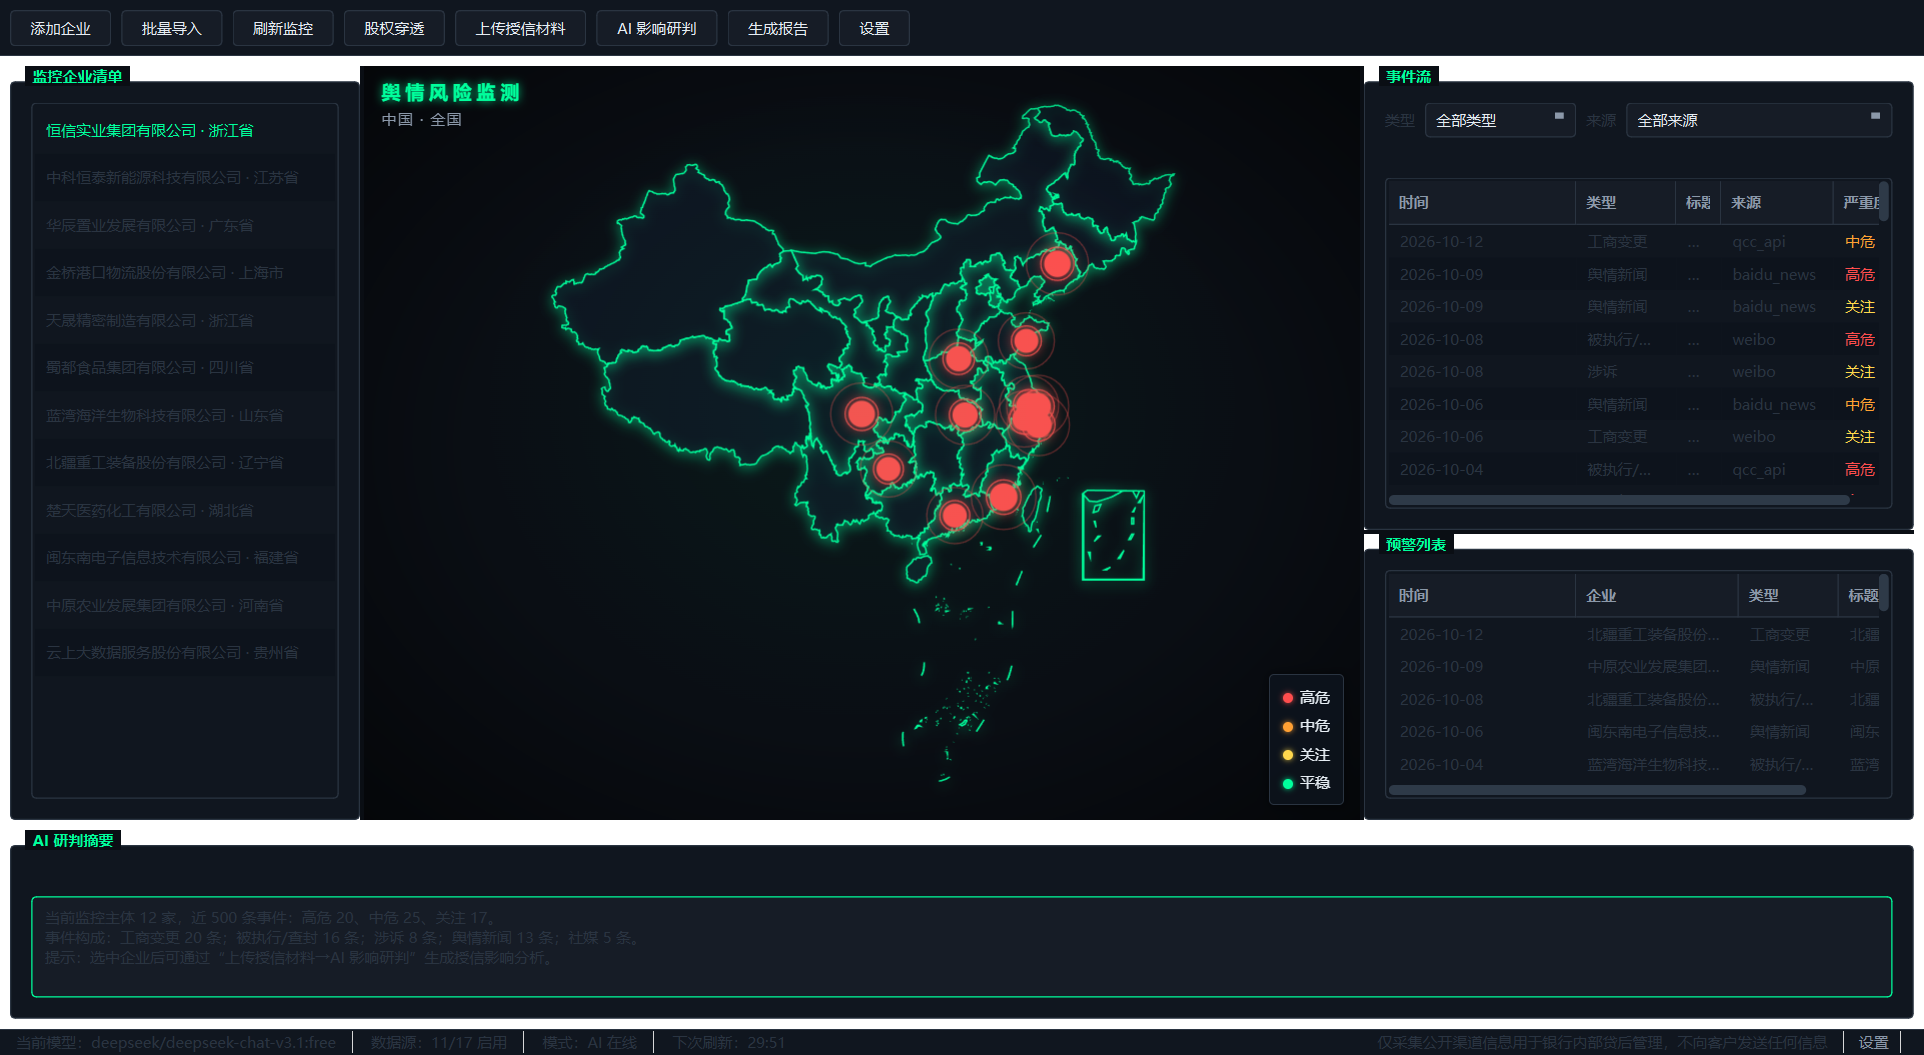
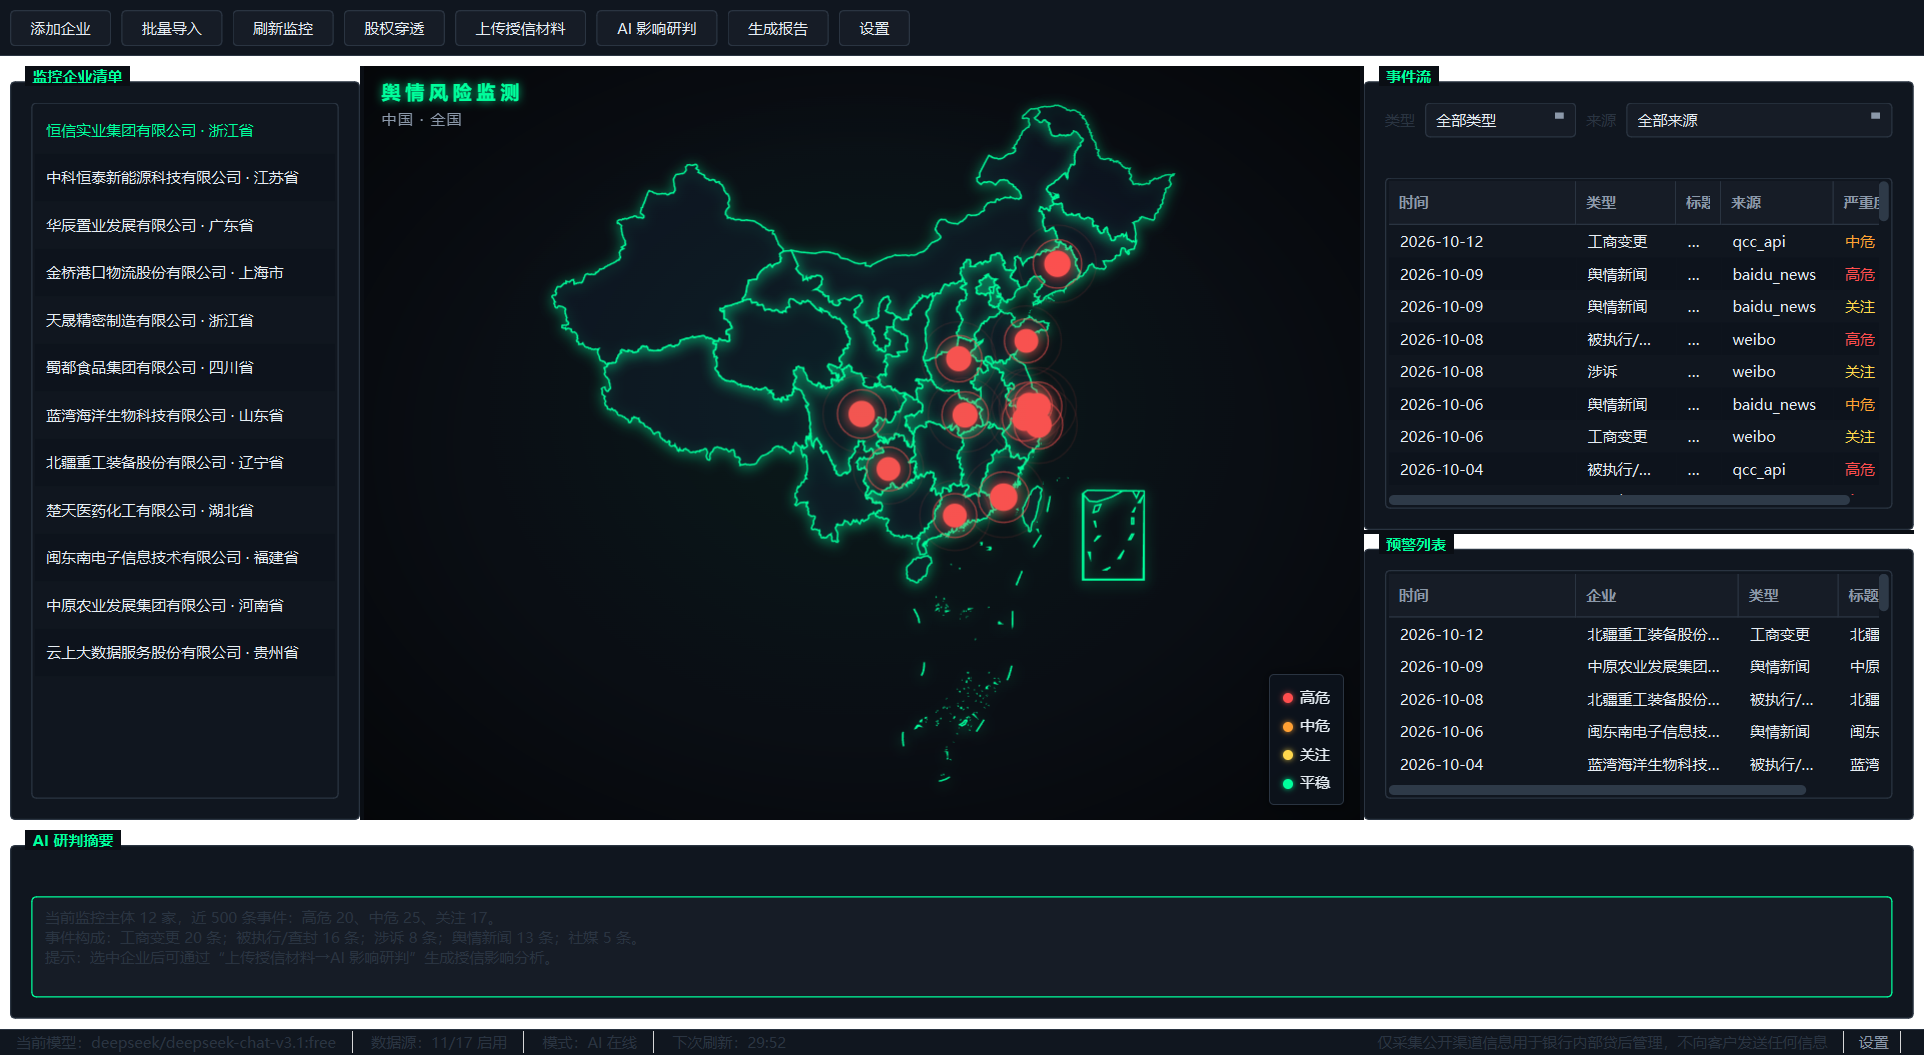
fix(ui): 修复深色主题下列表/表格未选中条目文字过暗
- Qt 样式表激活期间 item 文本不继承 QSS color 与调色板，改为在
  panels.py 对企业清单/事件流/预警列表条目显式 setForeground(TEXT_MAIN)
- theme.apply_palette() 补充应用级深色调色板（输入框/文本域兜底）
- theme QSS 为列表与输入控件显式声明 color

diff --git a/src/gui/theme.py b/src/gui/theme.py
@@ -48,6 +48,36 @@ RADIUS = 4                  # 卡片圆角
 SPACE = 8                   # 统一 8px 间距栅格
 
 
+def apply_palette(app):
+    """设置应用级深色调色板。
+
+    QSS 的 color 属性对 item view 条目文本（走 QPalette.Text 角色）不生效，
+    必须在调色板层显式指定，否则列表/表格未选中条目文字会落回系统默认灰暗色。
+    """
+    from PySide6.QtGui import QColor, QPalette
+
+    def _role(group, color, *roles):
+        for r in roles:
+            pal.setColor(group, r, QColor(color))
+
+    pal = app.palette()
+    active = QPalette.ColorGroup.Active
+    disabled = QPalette.ColorGroup.Disabled
+    R = QPalette.ColorRole
+    _role(active, TEXT_MAIN, R.WindowText, R.Text, R.ButtonText, R.BrightText)
+    _role(active, BG_WINDOW, R.Window)
+    _role(active, BG_CARD, R.Base)
+    _role(active, "#0D131C", R.AlternateBase)
+    _role(active, BG_INPUT, R.Button)
+    _role(active, PRIMARY_BG, R.Highlight)
+    _role(active, PRIMARY, R.HighlightedText)
+    _role(active, BG_CARD, R.ToolTipBase)
+    _role(active, PRIMARY, R.ToolTipText)
+    _role(active, TEXT_DISABLE, R.PlaceholderText)
+    _role(disabled, TEXT_DISABLE, R.WindowText, R.Text, R.ButtonText)
+    app.setPalette(pal)
+
+
 def get_app_qss() -> str:
     """返回全局样式表。黑色卡片式 QMainWindow/QGroupBox、三态按钮、表格、页签、输入控件、状态栏。"""
     return f"""
@@ -155,6 +185,7 @@ QPushButton[danger="true"]:pressed {{
 /* ---------- 输入控件 ---------- */
 QLineEdit, QPlainTextEdit, QTextEdit, QSpinBox, QDoubleSpinBox, QDateEdit, QTimeEdit {{
     background: {BG_INPUT};
+    color: {TEXT_MAIN};
     border: 1px solid {BORDER};
     border-radius: {RADIUS}px;
     padding: 4px 6px;
@@ -223,8 +254,10 @@ QCheckBox:hover, QRadioButton:hover {{
 }}
 
 /* ---------- 列表 / 表格 / 树 ---------- */
+/* 注意：item 文本走 QPalette.Text 角色，全局 * 选择器不生效，必须在此显式声明亮色 */
 QListWidget, QTreeWidget, QTableView, QListView {{
     background: {BG_CARD};
+    color: {TEXT_MAIN};
     border: 1px solid {BORDER};
     border-radius: {RADIUS}px;
     alternate-background-color: #0D131C;

diff --git a/src/gui/panels.py b/src/gui/panels.py
@@ -82,6 +82,8 @@ class EnterpriseListPanel(QGroupBox):
         tag = f"（{ent.relation}）" if ent.relation else ""
         region = f" · {ent.province}" if ent.province else ""
         item = QListWidgetItem(f"{prefix}{ent.name}{tag}{region}")
+        # QSS 激活时 item 文本不继承全局 color/palette，必须显式指定前景色
+        item.setForeground(QBrush(QColor(theme.TEXT_MAIN)))
         item.setData(ROLE_ENT_ID, ent.id or 0)
         item.setToolTip(ent.credit_note or ent.name)
         self.list.addItem(item)
@@ -228,6 +230,8 @@ class EventFeedPanel(QGroupBox):
             ])
             item.setToolTip(2, e.summary or e.title)
             item.setData(0, ROLE_ENT_ID, e.enterprise_id)
+            for col in range(4):  # 常规列亮色（严重程度列随后单独着色）
+                item.setForeground(col, QBrush(QColor(theme.TEXT_MAIN)))
             item.setForeground(4, QBrush(_sev_color(e.severity)))
             self.tree.addTopLevelItem(item)
 
@@ -286,6 +290,7 @@ class AlertPanel(QGroupBox):
             bg = QColor(theme.BG_ALERT_HIGH if e.severity == "high" else theme.BG_ALERT_MEDIUM)
             for col in range(4):
                 item.setBackground(col, QBrush(bg))
+                item.setForeground(col, QBrush(QColor(theme.TEXT_MAIN)))
             self.tree.addTopLevelItem(item)
         if not events:
             self.tree.addTopLevelItem(QTreeWidgetItem(["—", "—", "—", "暂无预警"]))

diff --git a/src/gui/main_window.py b/src/gui/main_window.py
@@ -121,6 +121,7 @@ class MainWindow(QMainWindow):
 
         app = QApplication.instance()
         if app is not None:
+            theme.apply_palette(app)
             app.setStyleSheet(theme.get_app_qss())
 
         self._worker = None
